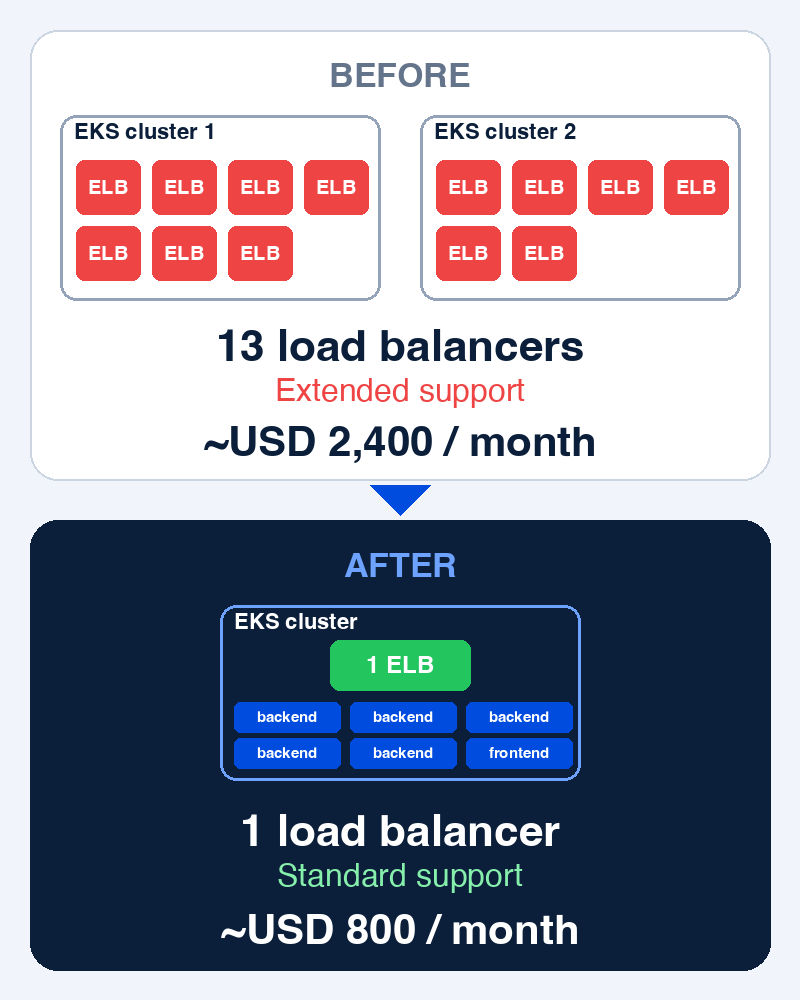
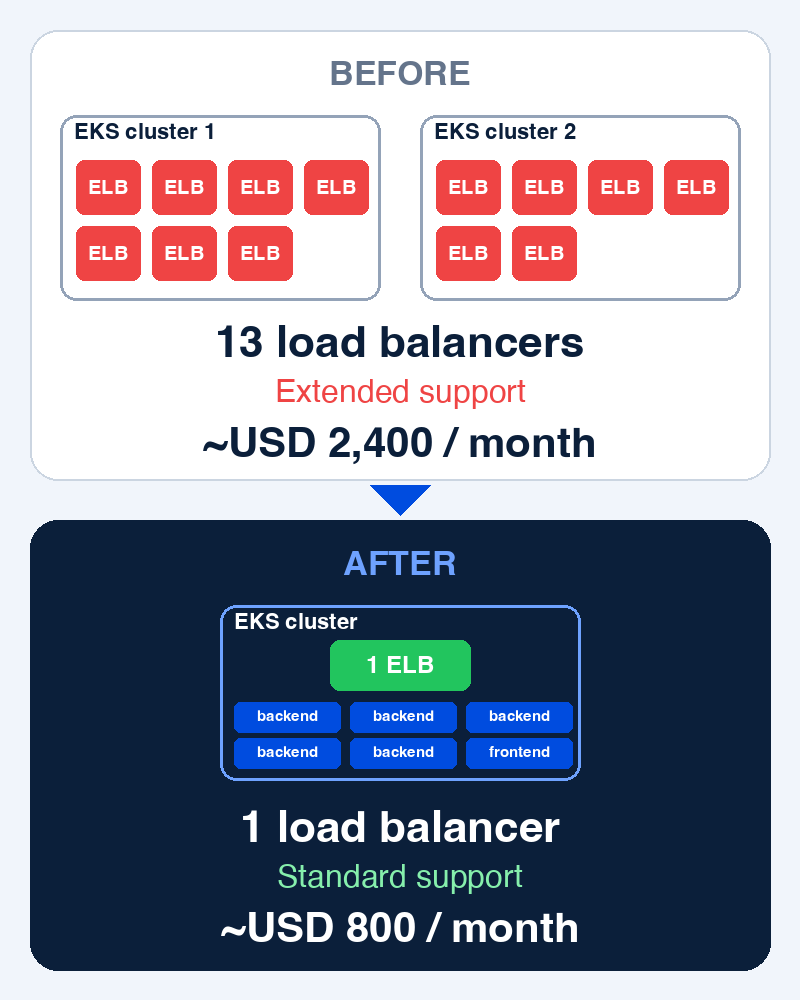
Fix blog diagram text overlap and spacing
- Center diagram text on a consistent baseline instead of per-line ink bounds
- Roomier E-E-A-T cards (desktop and phone) and updated image dimensions in the post
- Regenerate AWS before/after diagrams

diff --git a/scripts/make-diagrams.py b/scripts/make-diagrams.py
@@ -13,11 +13,16 @@ def font(size, bold=True):
     return ImageFont.load_default()
 
 
-def center(d, box, text, f, fill):
-    """Center text's visible ink in the box, horizontally and vertically."""
-    l, t, r, b = d.textbbox((0, 0), text, font=f)
+def center(d, box, text, f, fill, ink=False):
+    """Center text in the box. Default uses the font's vertical middle (anchor="mm"), so every line sits on a
+    consistent baseline regardless of its letters. ink=True centers the visible glyphs instead; use it only for
+    short caps/number labels (E, A, T, ELB) inside shapes."""
     cx, cy = (box[0] + box[2]) / 2, (box[1] + box[3]) / 2
-    d.text((cx - (l + r) / 2, cy - (t + b) / 2), text, font=f, fill=fill)
+    if ink:
+        l, t, r, b = d.textbbox((0, 0), text, font=f)
+        d.text((cx - (l + r) / 2, cy - (t + b) / 2), text, font=f, fill=fill)
+    else:
+        d.text((cx, cy), text, font=f, fill=fill, anchor="mm")
 
 
 def aws():
@@ -36,7 +41,7 @@ def aws():
         for k in range(n):
             x, y = cx + 18 + (k % 4) * 54, 172 + (k // 4) * 70
             d.rounded_rectangle((x, y, x + 44, y + 50), 8, fill=(239, 68, 68))
-            center(d, (x, y, x + 44, y + 50), "ELB", font(14), "white")
+            center(d, (x, y, x + 44, y + 50), "ELB", font(14), "white", ink=True)
     center(d, (40, 410, 580, 460), "13 load balancers", font(34), NAVY)
     center(d, (40, 460, 580, 500), "Extended support", font(26, False), (239, 68, 68))
     center(d, (40, 510, 580, 570), "~USD 2,400 / month", font(36), NAVY)
@@ -44,7 +49,7 @@ def aws():
     d.rounded_rectangle((760, 120, 1020, 380), 16, outline=SKY, width=3)
     d.text((774, 130), "EKS cluster", font=font(20), fill="white")
     d.rounded_rectangle((850, 175, 930, 235), 10, fill=(34, 197, 94))
-    center(d, (850, 175, 930, 235), "1 ELB", font(18), "white")
+    center(d, (850, 175, 930, 235), "1 ELB", font(18), "white", ink=True)
     for k in range(6):
         x, y = 780 + (k % 3) * 76, 270 + (k // 3) * 54
         d.rounded_rectangle((x, y, x + 66, y + 40), 8, fill=PRIMARY)
@@ -58,31 +63,31 @@ def aws():
 
 
 def eeat():
-    W, H = 1200, 440
+    W, H = 1200, 500
     im = Image.new("RGB", (W, H), SOFT)
     d = ImageDraw.Draw(im)
     items = [("E", "Experience", "First-hand, real-world use of the topic"), ("E", "Expertise", "Knowledge and qualifications to write it"),
              ("A", "Authoritativeness", "Recognised as a go-to source"), ("T", "Trustworthiness", "Accurate, sourced and transparent")]
+    body = font(22, False)
     for i, (letter, name, desc) in enumerate(items):
         x = 40 + i * 285
-        d.rounded_rectangle((x, 40, x + 265, 350), 28, fill=NAVY if i == 3 else "white", outline=(203, 213, 225), width=2)
-        d.ellipse((x + 82, 65, x + 182, 165), fill=PRIMARY)
-        center(d, (x + 82, 65, x + 182, 165), letter, font(64), "white")
         dark = i == 3
-        center(d, (x, 190, x + 265, 230), name, font(26), "white" if dark else NAVY)
-        # wrap description
+        d.rounded_rectangle((x, 40, x + 265, 400), 28, fill=NAVY if dark else "white", outline=(203, 213, 225), width=2)
+        d.ellipse((x + 77, 70, x + 187, 180), fill=PRIMARY)
+        center(d, (x + 77, 70, x + 187, 180), letter, font(66), "white", ink=True)
+        center(d, (x, 215, x + 265, 255), name, font(27), "white" if dark else NAVY)
         words, lines, cur = desc.split(), [], ""
         for w in words:
             t = f"{cur} {w}".strip()
-            if d.textlength(t, font=font(21, False)) <= 225:
+            if d.textlength(t, font=body) <= 240:
                 cur = t
             else:
                 lines.append(cur)
                 cur = w
         lines.append(cur)
         for j, ln in enumerate(lines):
-            center(d, (x, 245 + j * 30, x + 265, 275), ln, font(21, False), (203, 213, 225) if dark else (71, 85, 105))
-    center(d, (0, 380, W, 410), "Trust is the most important of the four", font(22, False), (71, 85, 105))
+            center(d, (x, 285 + j * 38, x + 265, 323 + j * 38), ln, body, (203, 213, 225) if dark else (71, 85, 105))
+    center(d, (0, 425, W, 475), "Trust is the most important of the four", font(24, False), (71, 85, 105))
     im.save("public/blog/images/eeat.png", optimize=True)
 
 
@@ -100,7 +105,7 @@ def aws_mobile():
         for k in range(n):
             x, y = cx + 16 + (k % 4) * 76, 160 + (k // 4) * 66
             d.rounded_rectangle((x, y, x + 64, y + 54), 8, fill=(239, 68, 68))
-            center(d, (x, y, x + 64, y + 54), "ELB", font(20), "white")
+            center(d, (x, y, x + 64, y + 54), "ELB", font(20), "white", ink=True)
     center(d, (30, 320, 770, 370), "13 load balancers", font(44), NAVY)
     center(d, (30, 372, 770, 415), "Extended support", font(32, False), (239, 68, 68))
     center(d, (30, 420, 770, 470), "~USD 2,400 / month", font(42), NAVY)
@@ -109,7 +114,7 @@ def aws_mobile():
     d.rounded_rectangle((220, 605, 580, 780), 16, outline=SKY, width=3)
     d.text((234, 612), "EKS cluster", font=font(22), fill="white")
     d.rounded_rectangle((330, 640, 470, 690), 10, fill=(34, 197, 94))
-    center(d, (330, 640, 470, 690), "1 ELB", font(24), "white")
+    center(d, (330, 640, 470, 690), "1 ELB", font(24), "white", ink=True)
     for k in range(6):
         x, y = 234 + (k % 3) * 116, 702 + (k // 3) * 36
         d.rounded_rectangle((x, y, x + 106, y + 30), 6, fill=PRIMARY)
@@ -131,9 +136,9 @@ def eeat_mobile():
         x, y = 30 + (i % 2) * 385, 30 + (i // 2) * 340
         d.rounded_rectangle((x, y, x + 355, y + 310), 28, fill=NAVY if i == 3 else "white", outline=(203, 213, 225), width=2)
         d.ellipse((x + 132, y + 22, x + 222, y + 112), fill=PRIMARY)
-        center(d, (x + 132, y + 22, x + 222, y + 112), letter, font(56), "white")
+        center(d, (x + 132, y + 22, x + 222, y + 112), letter, font(56), "white", ink=True)
         dark = i == 3
-        center(d, (x, y + 125, x + 355, y + 170), name, font(32), "white" if dark else NAVY)
+        center(d, (x, y + 130, x + 355, y + 175), name, font(32), "white" if dark else NAVY)
         words, lines, cur = desc.split(), [], ""
         for w in words:
             t = f"{cur} {w}".strip()
@@ -144,7 +149,7 @@ def eeat_mobile():
                 cur = w
         lines.append(cur)
         for j, ln in enumerate(lines):
-            center(d, (x, y + 185 + j * 34, x + 355, y + 219 + j * 34), ln, font(25, False), (203, 213, 225) if dark else (71, 85, 105))
+            center(d, (x, y + 200 + j * 40, x + 355, y + 240 + j * 40), ln, font(25, False), (203, 213, 225) if dark else (71, 85, 105))
     center(d, (0, 715, W, 760), "Trust is the most important of the four", font(26, False), (71, 85, 105))
     im.save("public/blog/images/eeat-mobile.png", optimize=True)
 

diff --git a/src/content/blog/google-adsense-rejected-thin-content-eeat-lessons.md b/src/content/blog/google-adsense-rejected-thin-content-eeat-lessons.md
@@ -43,7 +43,7 @@ E-E-A-T is not a single score or a switch. It's a way of judging whether content
 
 <picture>
 <source media="(max-width: 639px)" srcset="/blog/images/eeat-mobile.png">
-<img src="/blog/images/eeat.png" alt="The four parts of E-E-A-T: Experience, Expertise, Authoritativeness and Trustworthiness" width="1200" height="440">
+<img src="/blog/images/eeat.png" alt="The four parts of E-E-A-T: Experience, Expertise, Authoritativeness and Trustworthiness" width="1200" height="500">
 </picture> A medicine website is held to a much higher standard than, say, a recipe blog.
 
 I have a D.Pharm diploma, but a visitor can't see that unless the site shows it clearly. On my site, the signals of experience, expertise and trust weren't strong enough.
